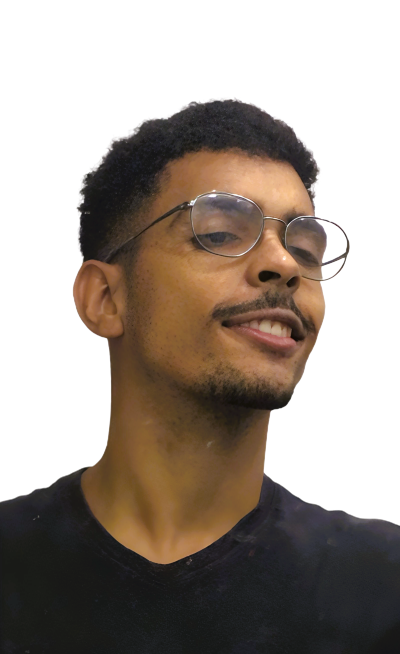
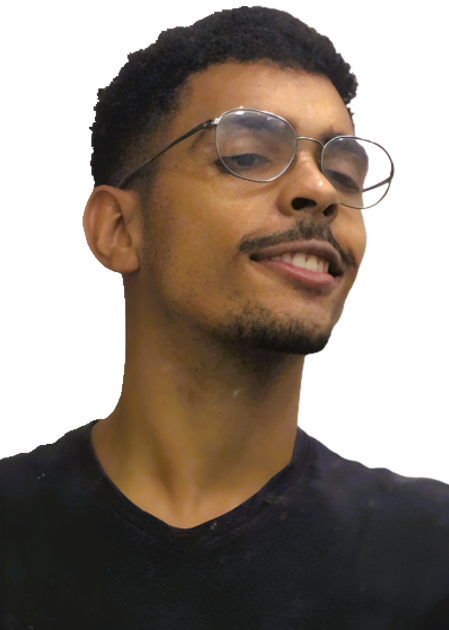
feat: att foto sobre mim

diff --git a/src/main/resources/static/css/index.css b/src/main/resources/static/css/index.css
@@ -72,7 +72,7 @@ header {
 }
 
 header a {
-    color: #5c5c5c;
+    color: #787878;
     text-decoration: none;
     display: inline-block;
     transition: .2s;
@@ -103,10 +103,10 @@ header nav.menu-desktop{
 /* ESTILO DO TOPO DO SITE */
 section.topo-do-site {
     padding: 40px 4%;
-    height: 90vh; /* Cada seção ocupa 100% da altura da tela */
-    display: flex; /* Mantém os elementos alinhados */
-    align-items: center; /* Centraliza os conteúdos verticalmente */
-    justify-content: center; /* Centraliza horizontalmente (se necessário) */
+    height: 90vh;
+    display: flex;
+    align-items: center;
+    justify-content: center;
 }
 
 section.topo-do-site .flex {
@@ -125,8 +125,8 @@ section.topo-do-site .right-side {
     flex: 1.15;
     height: 100%;
     display: flex;
-    justify-content: center; /* Centraliza horizontalmente */
-    align-items: center; /* Centraliza verticalmente */
+    justify-content: center;
+    align-items: center;
 }
 
 section.topo-do-site .right-side img {
@@ -163,6 +163,36 @@ section.topo-do-site .right-side img {
     margin: 20px 0;
 }
 
+/* ESTILO DO SOBRE */
+section.sobre {
+    padding: 80px 4%;
+}
+
+section.sobre .flex {
+    align-items: center;
+    gap: 60px;
+}
+
+.sobre .txt-sobre {
+    color: #fff;
+}
+
+.sobre .txt-sobre h2 {
+    font-size: 40px;
+    line-height: 40px;
+    margin-bottom: 30px;
+}
+
+.sobre .txt-sobre h2 span {
+    color: #ff6200;
+    display: block;
+}
+
+.sobre .txt-sobre p {
+    margin: 20px 0;
+    text-align: justify;
+}
+
 /* ESTILO DAS ESPECIALIDADES */
 section.especialidades {
     padding: 40px 4%;
@@ -193,36 +223,6 @@ section.especialidades .flex {
 .especialidades .especialidades-box h3 {
     font-size: 28px;
     margin: 15px 0;
-}
-
-/* ESTILO DO SOBRE */
-section.sobre {
-    padding: 80px 4%;
-}
-
-section.sobre .flex {
-    align-items: center;
-    gap: 60px;
-}
-
-.sobre .txt-sobre {
-    color: #fff;
-}
-
-.sobre .txt-sobre h2 {
-    font-size: 40px;
-    line-height: 40px;
-    margin-bottom: 30px;
-}
-
-.sobre .txt-sobre h2 span {
-    color: #ff6200;
-    display: block;
-}
-
-.sobre .txt-sobre p {
-    margin: 20px 0;
-    text-align: justify;
 }
 
 .btn-social button {
@@ -425,6 +425,8 @@ body.dark .btn-social button {
 
 .img-sobre img {
     border-radius: 10%;
+    width: 400px;
+    height: 654px;
     object-fit: cover;
 }
 
@@ -485,7 +487,7 @@ body.dark .btn-social button {
         height: 20%;
         display: flex;
         justify-content: center;
-        align-items: center;
+        align-items: flex-start;
         margin-top: 20px;
     }
 
@@ -556,6 +558,6 @@ body.dark .btn-social button {
         transform: translateY(0);
     }
     100% {
-        transform: translateY(30px);
+        transform: translateY(40px);
     }
 }
